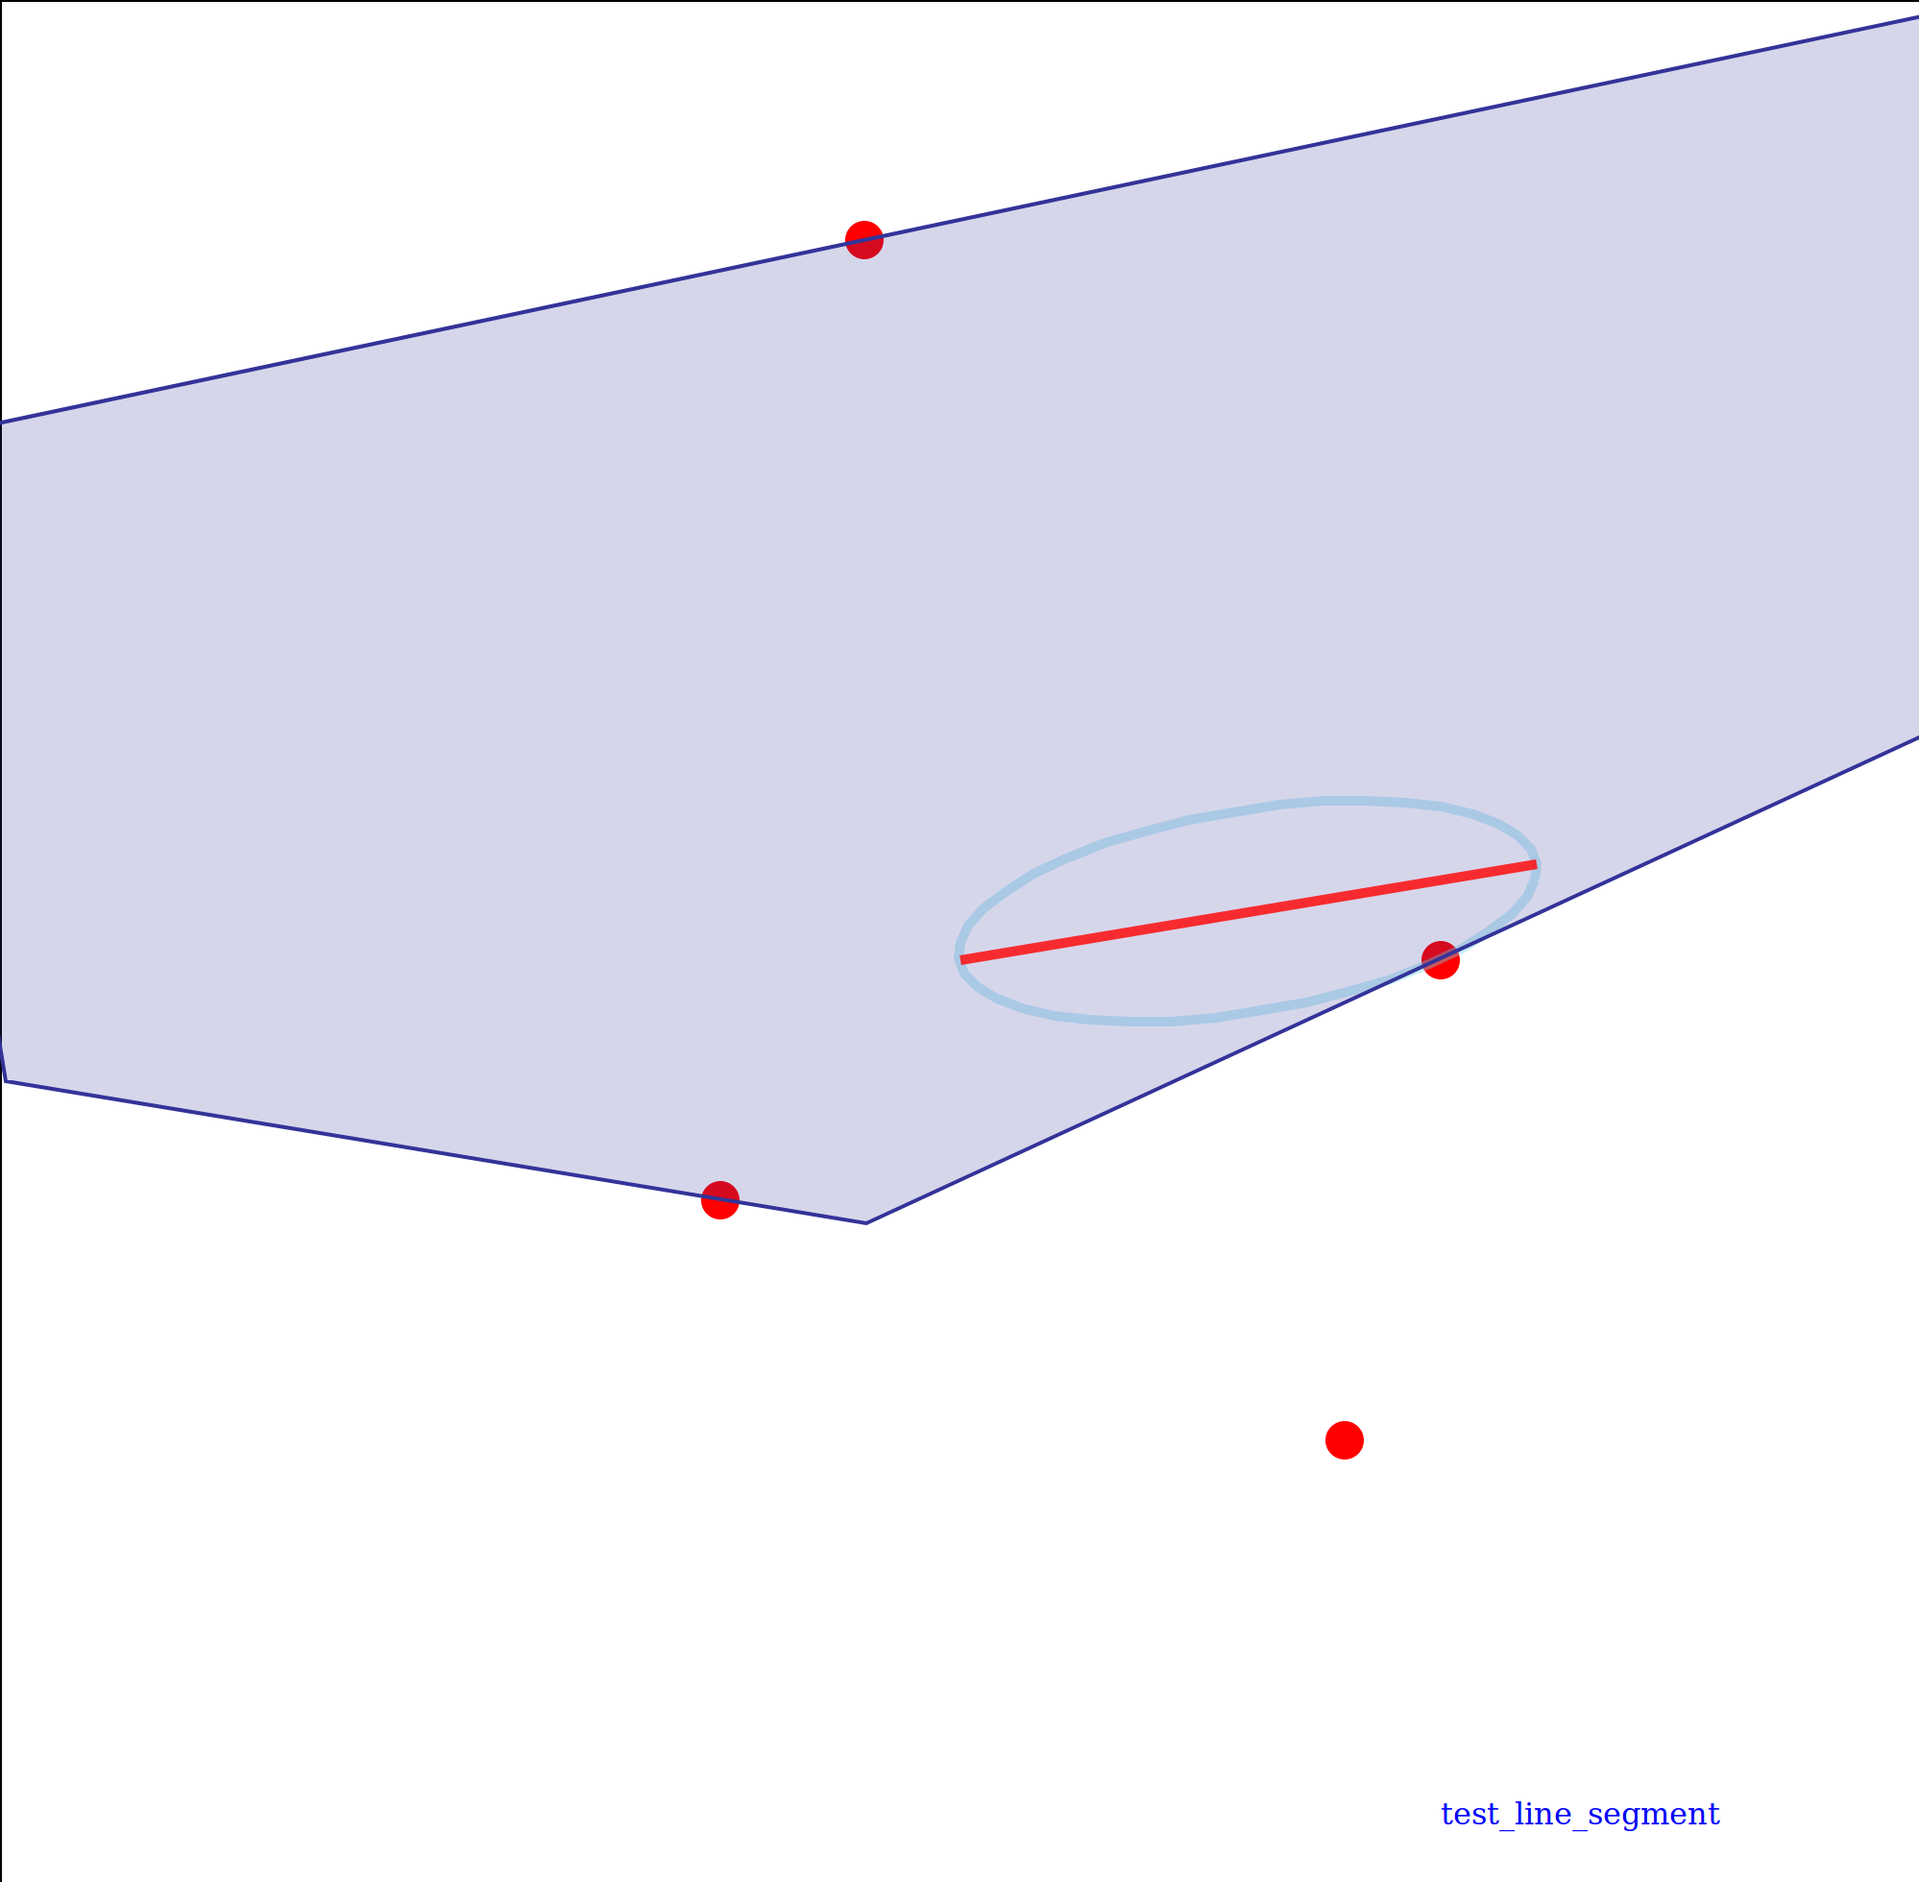
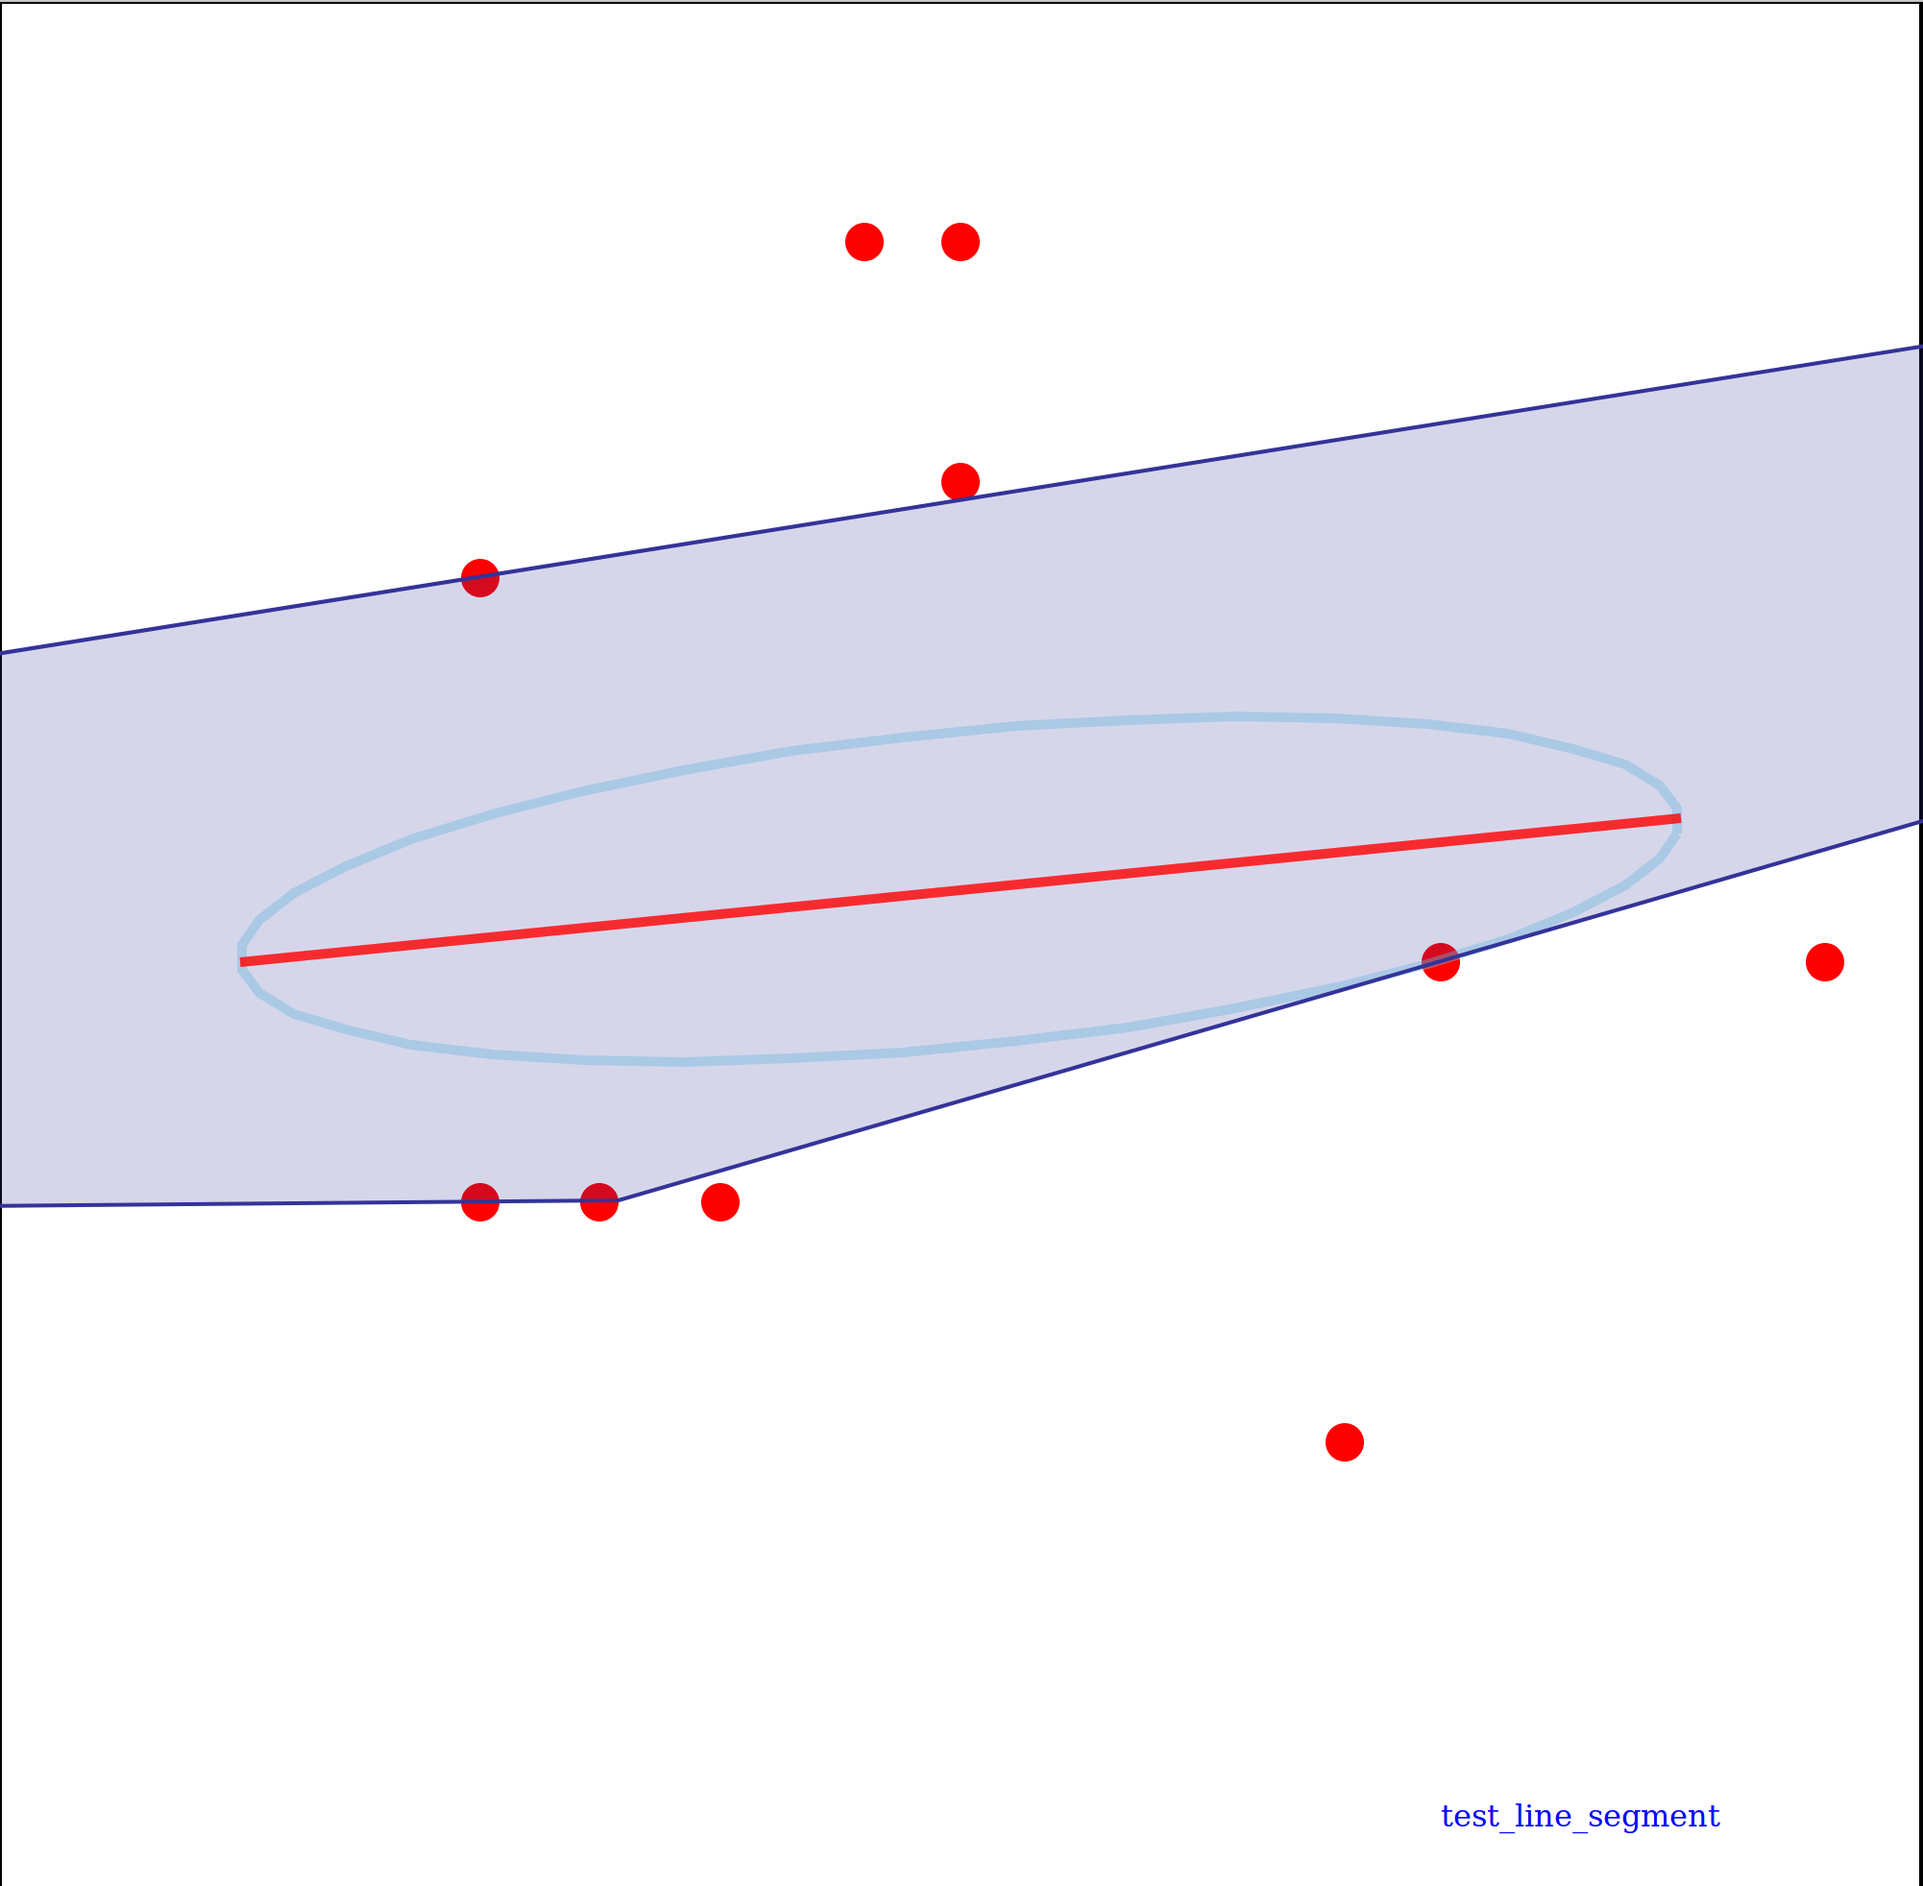
fix bug in converting linear constraint, add iterative decomp back

diff --git a/test/test_iterative_decomp.cpp b/test/test_iterative_decomp.cpp
@@ -1,5 +1,5 @@
 #include "txt_reader.hpp"
-#include <decomp_util/line_segment.h>
+#include <decomp_util/iterative_decomp.h>
 #include <decomp_geometry/geometric_utils.h>
 
 #include <fstream>
@@ -22,16 +22,20 @@ int main(int argc, char **argv) {
     return -1;
   }
 
+  // Set map size
+  const Vec2f origin(-2, -2);
+  const Vec2f range(4, 4);
 
-  // Seed
-  const Vec2f pos1(-1.5, 0.0);
-  const Vec2f pos2(1.5, 0.3);
+  // Path to dilate
+  vec_Vec2f path;
+  path.push_back(Vec2f(-1.5, 0.0));
+  path.push_back(Vec2f(1.5, 0.3));
 
   // Initialize SeedDecomp2D
-  LineSegment2D decomp(pos1, pos2);
+  IterativeDecomp2D decomp(origin, range);
   decomp.set_obs(obs);
   decomp.set_local_bbox(Vec2f(2, 2));
-  decomp.dilate(0);
+  decomp.dilate_iter(path, 5, 0.3, 0.0);
 
   // Plot the result in svg image
   typedef boost::geometry::model::d2::point_xy<double> point_2d;
@@ -39,19 +43,14 @@ int main(int argc, char **argv) {
   // Declare a stream and an SVG mapper
   boost::geometry::svg_mapper<point_2d> mapper(svg, 1000, 1000);
 
-
   // Draw the canvas 4 x 4m
   boost::geometry::model::polygon<point_2d> bound;
-  const double origin_x = -2;
-  const double origin_y = -2;
-  const double range_x = 4;
-  const double range_y = 4;
   std::vector<point_2d> points;
-  points.push_back(point_2d(origin_x, origin_y));
-  points.push_back(point_2d(origin_x, origin_y + range_y));
-  points.push_back(point_2d(origin_x + range_x, origin_y + range_y));
-  points.push_back(point_2d(origin_x + range_x, origin_y));
-  points.push_back(point_2d(origin_x, origin_y));
+  points.push_back(point_2d(origin(0), origin(1)));
+  points.push_back(point_2d(origin(0), origin(1) + range(1)));
+  points.push_back(point_2d(origin(0) + range(0), origin(1) + range(1)));
+  points.push_back(point_2d(origin(0) + range(0), origin(1)));
+  points.push_back(point_2d(origin(0), origin(1)));
   boost::geometry::assign_points(bound, points);
   boost::geometry::correct(bound);
 
@@ -68,42 +67,43 @@ int main(int argc, char **argv) {
 
   // Draw ellispoid
   {
-    const auto E = decomp.get_ellipsoid();
-    int num = 40; // number of points on trajectory to draw
-    boost::geometry::model::linestring<point_2d> line;
-    for (const auto& it: E.sample(num))
-      line.push_back(point_2d(it(0), it(1)));
-    line.push_back(line.front());
-    mapper.add(line);
-    mapper.map(line,
-               "opacity:0.4;fill:none;stroke:rgb(118,215,234);stroke-width:5");
+    for(const auto& E: decomp.get_ellipsoids()) {
+      int num = 40; // number of points on trajectory to draw
+      boost::geometry::model::linestring<point_2d> line;
+      for (const auto& it: E.sample(num))
+        line.push_back(point_2d(it(0), it(1)));
+      line.push_back(line.front());
+      mapper.add(line);
+      mapper.map(line,
+                 "opacity:0.4;fill:none;stroke:rgb(118,215,234);stroke-width:5");
+    }
   }
 
   // Draw polygon
   {
-    const auto poly = decomp.get_polyhedron();
-    const auto vertices = cal_vertices(poly);
-    std::string ss("POLYGON((");
-    for (size_t i = 0; i < vertices.size(); i++) {
-      ss += std::to_string(vertices[i](0)) + " " +
-        std::to_string(vertices[i](1));
-      if(i == vertices.size() - 1)
-        ss += "))";
-      else
-        ss += ",";
-    }
+    for(const auto& poly: decomp.get_polyhedrons()) {
+      const auto vertices = cal_vertices(poly);
+      std::string ss("POLYGON((");
+      for (size_t i = 0; i < vertices.size(); i++) {
+        ss += std::to_string(vertices[i](0)) + " " +
+          std::to_string(vertices[i](1));
+        if(i == vertices.size() - 1)
+          ss += "))";
+        else
+          ss += ",";
+      }
 
-    boost::geometry::model::polygon<point_2d> p;
-    boost::geometry::read_wkt(ss, p);
-    mapper.add(p);
-    mapper.map(p, "fill-opacity:0.2;fill:rgb(51,51,153);stroke:rgb(51,51,153);stroke-width:2");
+      boost::geometry::model::polygon<point_2d> p;
+      boost::geometry::read_wkt(ss, p);
+      mapper.add(p);
+      mapper.map(p, "fill-opacity:0.2;fill:rgb(51,51,153);stroke:rgb(51,51,153);stroke-width:2");
+    }
   }
 
-  // Draw line segment
+  // Draw path
   {
-    const auto line_segment = decomp.get_line_segment();
     boost::geometry::model::linestring<point_2d> line;
-    for(const auto& it: line_segment)
+    for(const auto& it: path)
       line.push_back(point_2d(it(0), it(1)));
     mapper.add(line);
     mapper.map(line,
@@ -112,7 +112,7 @@ int main(int argc, char **argv) {
 
 
   // Write title at the lower right corner on canvas
-  mapper.text(point_2d(1.0, -1.8), "test_line_segment",
+  mapper.text(point_2d(1.0, -1.8), "test_iterative_decomp",
               "fill-opacity:1.0;fill:rgb(10,10,250);");
 
   return 0;

diff --git a/include/decomp_util/iterative_decomp.h b/include/decomp_util/iterative_decomp.h
@@ -1,0 +1,105 @@
+/**
+ * @file iterative_decomp.h
+ * @brief IterativeDecomp Class
+ */
+#ifndef ITERATIVE_DECOMP_H
+#define ITERATIVE_DECOMP_H
+
+#include <decomp_util/ellipsoid_decomp.h>
+
+/**
+ * @brief IterativeDecomp Class
+ *
+ * Iteratively calls ElliseDecomp to form a safer Safe Flight Corridor that is away from obstacles
+ */
+template <int Dim>
+class IterativeDecomp : public EllipsoidDecomp<Dim>
+{
+  public:
+    ///Simple constructor
+    IterativeDecomp() {}
+    /**
+     * @brief Basic constructor
+     * @param origin The origin of the global bounding box
+     * @param dim The dimension of the global bounding box
+     */
+    IterativeDecomp(const Vecf<Dim> &origin, const Vecf<Dim> &dim) :
+        EllipsoidDecomp<Dim>(origin, dim) {}
+    /**
+     * @brief Decomposition thread
+     * @param path_raw The path to dilate
+     * @param iter_num Max iteration number
+     * @param offset_x offset added to the long semi-axis, default is 0
+     * @param res Resolution to downsample the path
+     */
+    void dilate_iter(const vec_Vecf<Dim> &path_raw, int iter_num = 5,
+                decimal_t res = 0, decimal_t offset_x = 0) {
+      vec_Vecf<Dim> path = res > 0 ? downsample(path_raw, res) : path_raw;
+      this->dilate(path, offset_x);
+      vec_Vecf<Dim> new_path = simplify(path);
+      for (int i = 0; i < iter_num; i++) {
+        if (new_path.size() == path.size())
+          break;
+        else {
+          path = new_path;
+          this->dilate(path, offset_x);
+          new_path = simplify(path);
+        }
+      }
+    }
+
+  protected:
+    /// Uniformly sample path into many segments
+    vec_Vecf<Dim> downsample(const vec_Vecf<Dim> &ps, decimal_t d) {
+      // subdivide according to length
+      if (ps.size() < 2)
+        return ps;
+      vec_Vecf<Dim> path;
+      for (unsigned int i = 1; i < ps.size(); i++) {
+        decimal_t dist = (ps[i] - ps[i - 1]).norm();
+        int cnt = std::ceil(dist / d);
+        for (int j = 0; j < cnt; j++)
+          path.push_back(ps[i - 1] + j * (ps[i] - ps[i - 1]) / cnt);
+      }
+      path.push_back(ps.back());
+      return path;
+    }
+
+    /// Get closest distance
+    decimal_t cal_closest_dist(const Vecf<Dim>& pt, const Polyhedron<Dim>& vs){
+      decimal_t dist = std::numeric_limits<decimal_t>::infinity();
+      for(const auto& it: vs.hyperplanes()){
+        decimal_t d = std::abs(it.n_.dot(pt - it.p_));
+        if(d < dist)
+          dist = d;
+      }
+      return dist;
+    }
+
+    /// Remove redundant waypoints
+    vec_Vecf<Dim> simplify(const vec_Vecf<Dim>& path) {
+			if(path.size() <= 2)
+				return path;
+
+			Vecf<Dim> ref_pt = path.front();
+			vec_Vecf<Dim> new_path;
+			new_path.push_back(ref_pt);
+
+			for(size_t i = 2; i < path.size(); i ++){
+				if(this->polyhedrons_[i-1].inside(ref_pt) &&
+					 cal_closest_dist(ref_pt, this->polyhedrons_[i-1]) > 0.1) {
+				}
+				else{
+					ref_pt = path[i-1];
+					new_path.push_back(ref_pt);
+				}
+			}
+			new_path.push_back(path.back());
+			return new_path;
+		}
+};
+
+typedef IterativeDecomp<2> IterativeDecomp2D;
+
+typedef IterativeDecomp<3> IterativeDecomp3D;
+#endif

diff --git a/include/decomp_util/ellipsoid_decomp.h b/include/decomp_util/ellipsoid_decomp.h
@@ -59,10 +59,7 @@ public:
   * @param path The path to dilate
   * @param offset_x offset added to the long semi-axis, default is 0
   */
- bool dilate(const vec_Vecf<Dim> &path, double offset_x = 0) {
-   if (path.size() < 2)
-     return false;
-
+ void dilate(const vec_Vecf<Dim> &path, double offset_x = 0) {
    const unsigned int N = path.size() - 1;
    lines_.resize(N);
    ellipsoids_.resize(N);
@@ -86,7 +83,6 @@ public:
        add_global_bbox(it);
    }
 
-   return true;
  }
 
 protected:

diff --git a/include/decomp_geometry/polyhedron.h b/include/decomp_geometry/polyhedron.h
@@ -112,8 +112,8 @@ struct LinearConstraint {
 		VecDf b(size);
 
 		for (unsigned int i = 0; i < size; i++) {
-			const auto n = vs[i].n;
-			decimal_t c = vs[i].p.dot(n);
+			const auto n = vs[i].n_;
+			decimal_t c = vs[i].p_.dot(n);
 			if (n.dot(p0) - c > 0) {
 				n = -n;
 				c = -c;

diff --git a/README.md b/README.md
@@ -32,12 +32,15 @@ include_directories(${DECOMP_UTIL_INCLUDE_DIRS})
 ```
 
 ## Examples
-The examples of using `SeedDecomp2D`, `LineSegment2D` and `EllipsoidDecomp2D`
-are plotted as followings:
+The examples of using `SeedDecomp2D`, `LineSegment2D`, `EllipsoidDecomp2D` and
+`IterativeDecomp2D` are plotted as followings:
 
-<img src="./data/example1.png" height="200"> <img src="./data/example2.png" height="200"> <img src="./data/example3.png" height="200">
+SeedDecomp2D | LineSegment2D | EllipsoidDecomp2D | IterativeDecomp2D
+:----------- | :------------ | :---------------- | :----------------
+<img src="./data/example1.png" height="200"> <img src="./data/example2.png" height="200"> <img src="./data/example3.png" height="200"> <img src="./data/example4.png" height="200">
 
-The code for testing can be found in the `test` folder.
+
+The corresponding code for testing can be found in the `test` folder.
 
 ## Doxygen
 For more details, please refer to https://sikang.github.io/DecompUtil/index.html
